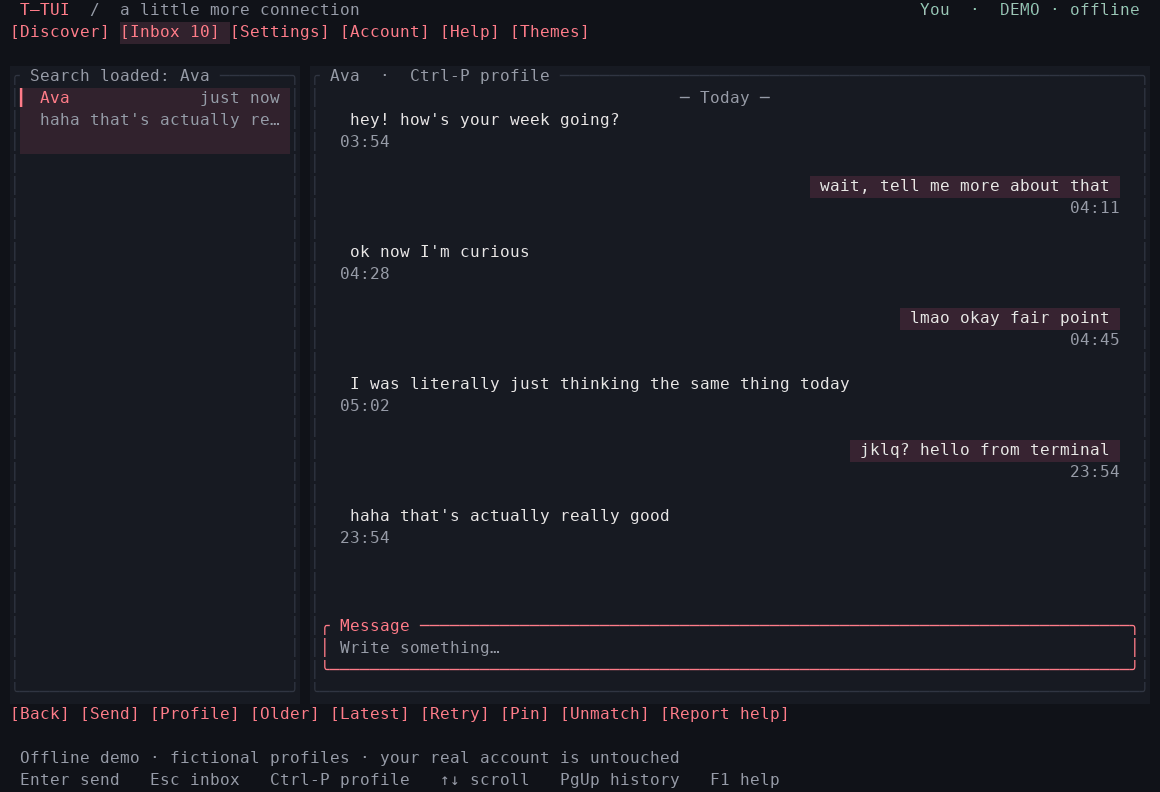
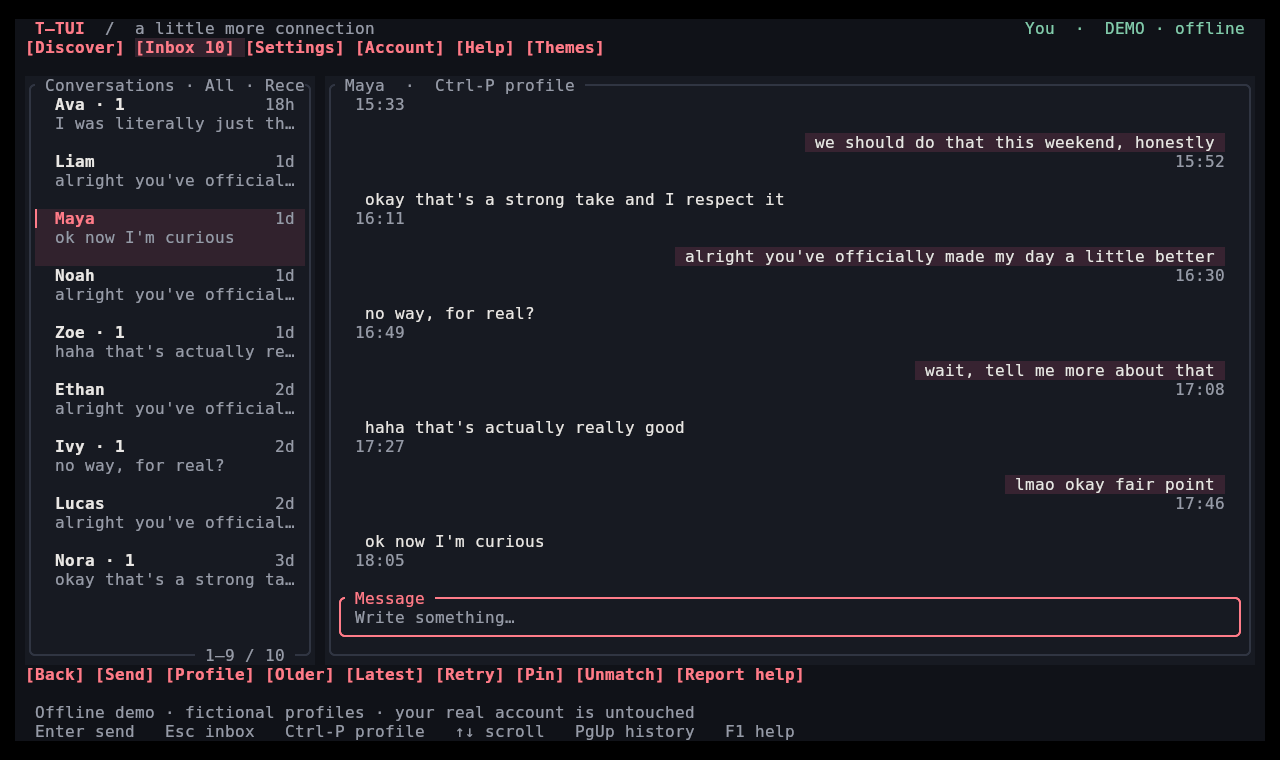
docs: recapture README tour and screenshots with real pixel photos (#10)

diff --git a/README.md b/README.md
@@ -8,7 +8,7 @@
 
 [**Install**](#-install) · [**Features**](#-features) · [**Screenshots**](#-screenshots) · [**Keys**](#%EF%B8%8F-keyboard-shortcuts) · [**FAQ**](#-faq) · [**Releases**](https://github.com/mikimatsub/T-Tui/releases)
 
-<img src="https://raw.githubusercontent.com/mikimatsub/T-Tui/main/docs/assets/demo.gif" alt="Animated tour of the offline demo: inbox, profile, discovery, chat, theme picker, account editor and light theme, all with fictional profiles" width="860">
+<img src="https://raw.githubusercontent.com/mikimatsub/T-Tui/main/docs/assets/demo.webp" alt="Animated tour of the offline demo in a graphics-capable terminal: inbox with photo previews, discovery photo carousel, chat and a full profile, all with fictional data" width="860">
 
 <sub>Recorded from <code>ttui --mock</code>. Every profile and photo is fictional.</sub>
 

diff --git a/CHANGELOG.md b/CHANGELOG.md
@@ -2,6 +2,10 @@
 
 ## Unreleased
 
+### Changed
+
+- README demo tour and screenshots recaptured in a graphics-capable terminal, so photos render as real pixels instead of text-cell blocks; the tour is now an animated WebP (`docs/assets/demo.webp`) to keep gradients smooth.
+
 ### Fixed
 
 - Release workflow now passes the npm tarball as a local path (`./dist/*.tgz`) so `npm publish` no longer treats it as a GitHub shorthand, and add an npm-only recovery path (`workflow_dispatch` on a `<tag>-npm-recovery` tag) that publishes the attested tarball from an existing release.
